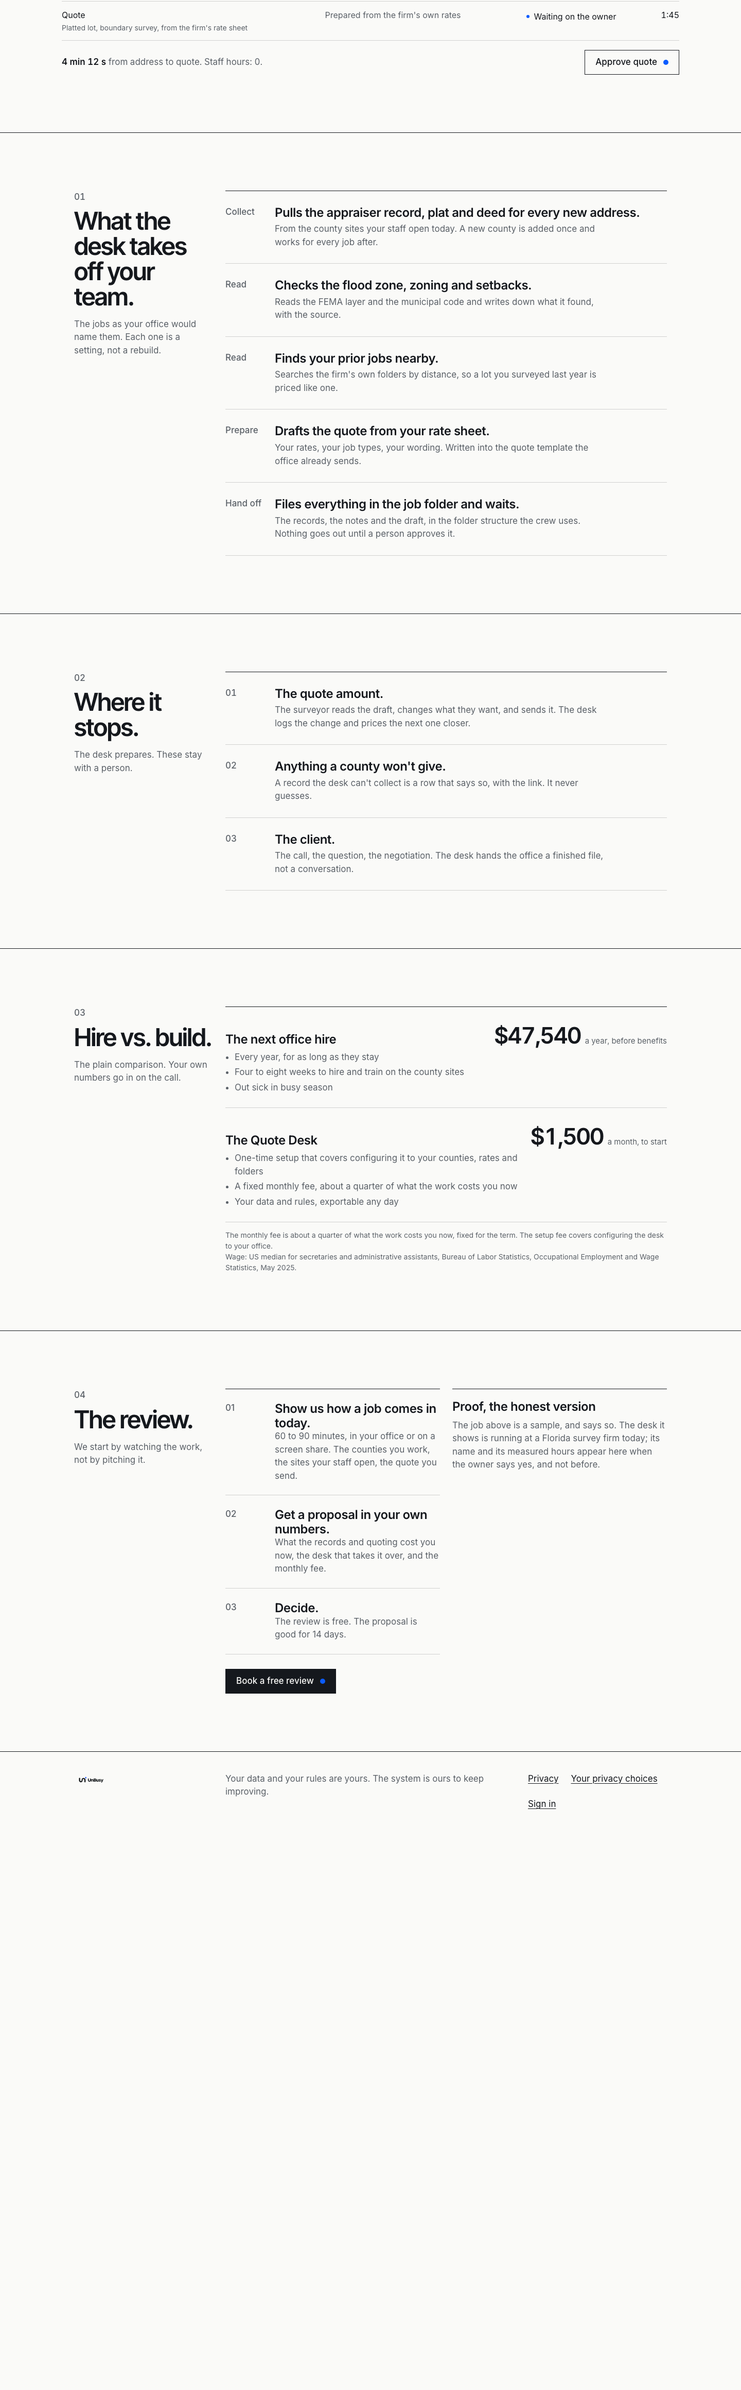
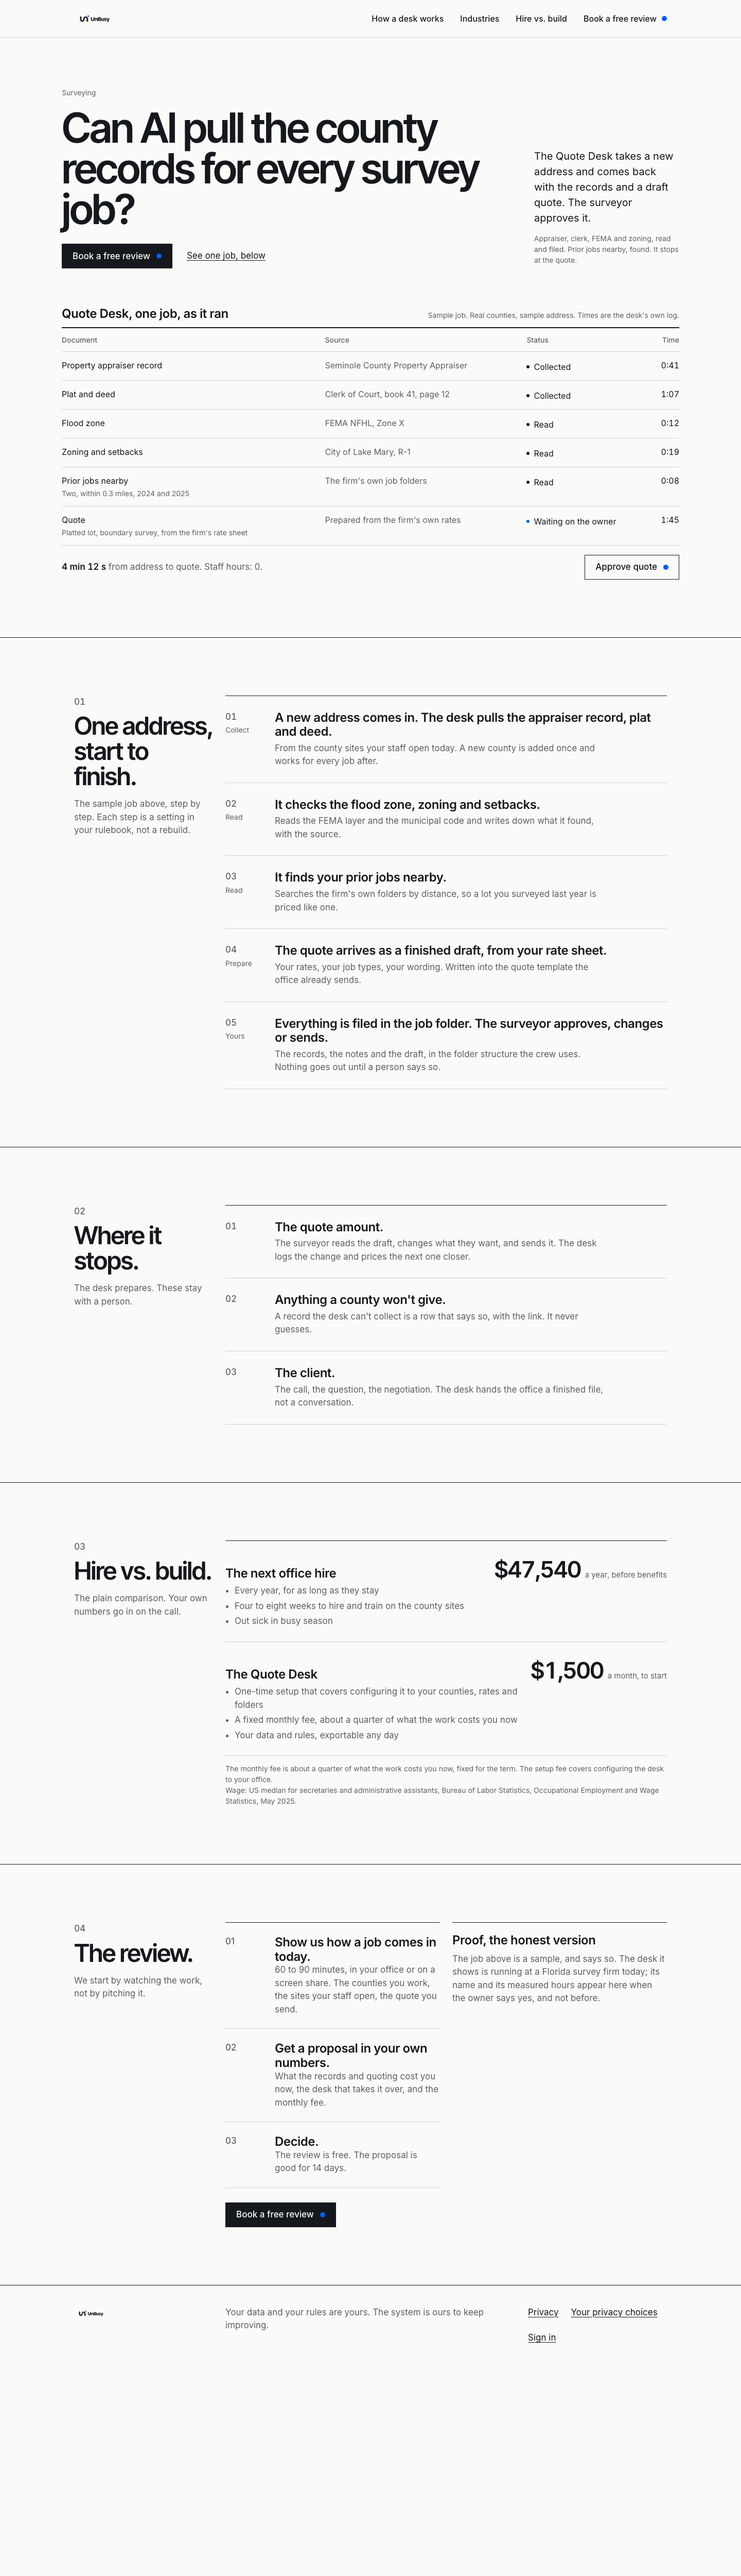
Mockups: running sheet, the ladder, finished draft / yours, data facts
Elements Josh picked from giga.ai, legora.com, zaro.ai and beside.com,
recorded in SITE-PLAN §0.1 and DESIGN §7.

diff --git a/docs/brand/site-concept/index.html b/docs/brand/site-concept/index.html
@@ -59,10 +59,10 @@
   <section id="how"><div class="wrap grid sec">
     <div class="c1-3"><div class="n num">01</div><h2>A desk does the legwork. Your people make the calls.</h2><p class="intro">Every desk has the same four parts, built around how your office actually works.</p></div>
     <div class="c4-12 rows">
-      <div class="row"><div class="n num">Collect</div><div><h3>Pulls documents and data in by itself.</h3><p>County sites, email, uploads, QuickBooks, the software you already run. Nothing is retyped.</p></div></div>
-      <div class="row"><div class="n num">Read</div><div><h3>Reads each document and applies your rules.</h3><p>A new threshold, county or staff member is a setting you change yourself, not a rebuild.</p></div></div>
-      <div class="row"><div class="n num">Prepare</div><div><h3>Produces the thing that needs checking.</h3><p>The quote, the filing, the packet or the statement, ready for a person to look at.</p></div></div>
-      <div class="row"><div class="n num">Hand off</div><div><h3>Stops at your decision. Every time.</h3><p>A person approves, signs or sends. The desk logs it and learns from it.</p></div></div>
+      <div class="row"><div class="n num">Collect<span class="small">The desk</span></div><div><h3>Pulls documents and data in by itself.</h3><p>County sites, email, uploads, QuickBooks, the software you already run. Nothing is retyped.</p></div></div>
+      <div class="row"><div class="n num">Read<span class="small">The desk</span></div><div><h3>Reads each document and applies your rules.</h3><p>A new threshold, county or staff member is a setting you change yourself, not a rebuild.</p></div></div>
+      <div class="row"><div class="n num">Prepare<span class="small">The desk</span></div><div><h3>Every job arrives as a finished draft.</h3><p>The quote, the filing, the packet or the statement, written and filed, ready for a person to look at.</p></div></div>
+      <div class="row"><div class="n num">Hand off<span class="small">Yours</span></div><div><h3>Stops at your decision. Every time.</h3><p>You approve, sign or send. The desk logs it and learns from it. The judgement, the signature and the client stay yours.</p></div></div>
     </div>
   </div></section>
 
@@ -75,8 +75,14 @@
   </div></section>
 
   <section id="math"><div class="wrap grid sec">
-    <div class="c1-3"><div class="n num">03</div><h2>Hire vs. build.</h2><p class="intro">The plain comparison. Your own numbers go in on the call.</p></div>
+    <div class="c1-3"><div class="n num">03</div><h2>Hire vs. build.</h2><p class="intro">What owners usually try first, then the plain comparison. Your own numbers go in on the call.</p></div>
     <div class="c4-12">
+      <div class="rows" style="margin-bottom:48px">
+        <div class="row"><div class="n num">01</div><div><h3>The next hire.</h3><p>Works until they leave. Four to eight weeks to train, out sick in busy season, and the cost comes back every year.</p></div></div>
+        <div class="row"><div class="n num">02</div><div><h3>The all-in-one app.</h3><p>Answers the phone and builds the website. It has never read a plat, a W-9 or a work order, so your staff still retype into it.</p></div></div>
+        <div class="row"><div class="n num">03</div><div><h3>ChatGPT on a laptop.</h3><p>Answers questions when someone asks. It doesn't pull the records, doesn't know your rates and doesn't file anything.</p></div></div>
+        <div class="row"><div class="n num">04</div><div><h3>A desk.</h3><p>Does the job, in your systems, with your rules, and stops at your decision. Priced against the hire, below.</p></div></div>
+      </div>
       <div class="figs">
         <div class="fig"><div><h3>The next admin hire</h3><ul><li>Every year, for as long as they stay</li><li>Four to eight weeks to hire and train</li><li>Out sick in busy season</li></ul></div><div class="amt num">$47,540<small>a year, before benefits</small></div></div>
         <div class="fig"><div><h3>A desk</h3><ul><li>One-time setup that covers configuring it to your office</li><li>A fixed monthly fee, about a quarter of what the work costs you now</li><li>Your data and rules, exportable any day</li></ul></div><div class="amt num">$1,500<small>a month, to start</small></div></div>
@@ -107,5 +113,17 @@
   <div class="c10-12 links"><a class="link" href="#">Privacy</a><a class="link" href="#">Your privacy choices</a><a class="link" href="#">Sign in</a></div>
 </div></footer>
 
+
+<script>
+  // The sheet fills in row by row, once, the way the desk's log does. 4 min 12 s compressed to about five seconds.
+  (function(){
+    var sheet=document.querySelector('.sheet'); if(!sheet) return;
+    if(matchMedia('(prefers-reduced-motion: reduce)').matches) return;
+    sheet.classList.add('run');
+    var rows=[].slice.call(sheet.querySelectorAll('tbody tr')), foot=sheet.querySelector('.foot');
+    rows.forEach(function(r,i){ setTimeout(function(){ r.classList.add('on'); }, 500+i*650); });
+    setTimeout(function(){ foot.classList.add('on'); }, 500+rows.length*650+200);
+  })();
+</script>
 </body>
 </html>

diff --git a/docs/brand/site-concept/surveying.html b/docs/brand/site-concept/surveying.html
@@ -62,13 +62,13 @@
   </div>
 
   <section id="jobs"><div class="wrap grid sec">
-    <div class="c1-3"><div class="n num">01</div><h2>What the desk takes off your team.</h2><p class="intro">The jobs as your office would name them. Each one is a setting, not a rebuild.</p></div>
+    <div class="c1-3"><div class="n num">01</div><h2>One address, start to finish.</h2><p class="intro">The sample job above, step by step. Each step is a setting in your rulebook, not a rebuild.</p></div>
     <div class="c4-12 rows">
-      <div class="row"><div class="n num">Collect</div><div><h3>Pulls the appraiser record, plat and deed for every new address.</h3><p>From the county sites your staff open today. A new county is added once and works for every job after.</p></div></div>
-      <div class="row"><div class="n num">Read</div><div><h3>Checks the flood zone, zoning and setbacks.</h3><p>Reads the FEMA layer and the municipal code and writes down what it found, with the source.</p></div></div>
-      <div class="row"><div class="n num">Read</div><div><h3>Finds your prior jobs nearby.</h3><p>Searches the firm's own folders by distance, so a lot you surveyed last year is priced like one.</p></div></div>
-      <div class="row"><div class="n num">Prepare</div><div><h3>Drafts the quote from your rate sheet.</h3><p>Your rates, your job types, your wording. Written into the quote template the office already sends.</p></div></div>
-      <div class="row"><div class="n num">Hand off</div><div><h3>Files everything in the job folder and waits.</h3><p>The records, the notes and the draft, in the folder structure the crew uses. Nothing goes out until a person approves it.</p></div></div>
+      <div class="row"><div class="n num">01<span class="small">Collect</span></div><div><h3>A new address comes in. The desk pulls the appraiser record, plat and deed.</h3><p>From the county sites your staff open today. A new county is added once and works for every job after.</p></div></div>
+      <div class="row"><div class="n num">02<span class="small">Read</span></div><div><h3>It checks the flood zone, zoning and setbacks.</h3><p>Reads the FEMA layer and the municipal code and writes down what it found, with the source.</p></div></div>
+      <div class="row"><div class="n num">03<span class="small">Read</span></div><div><h3>It finds your prior jobs nearby.</h3><p>Searches the firm's own folders by distance, so a lot you surveyed last year is priced like one.</p></div></div>
+      <div class="row"><div class="n num">04<span class="small">Prepare</span></div><div><h3>The quote arrives as a finished draft, from your rate sheet.</h3><p>Your rates, your job types, your wording. Written into the quote template the office already sends.</p></div></div>
+      <div class="row"><div class="n num">05<span class="small">Yours</span></div><div><h3>Everything is filed in the job folder. The surveyor approves, changes or sends.</h3><p>The records, the notes and the draft, in the folder structure the crew uses. Nothing goes out until a person says so.</p></div></div>
     </div>
   </div></section>
 
@@ -114,5 +114,17 @@
   <div class="c10-12 links"><a class="link" href="#">Privacy</a><a class="link" href="#">Your privacy choices</a><a class="link" href="#">Sign in</a></div>
 </div></footer>
 
+
+<script>
+  // The sheet fills in row by row, once, the way the desk's log does. 4 min 12 s compressed to about five seconds.
+  (function(){
+    var sheet=document.querySelector('.sheet'); if(!sheet) return;
+    if(matchMedia('(prefers-reduced-motion: reduce)').matches) return;
+    sheet.classList.add('run');
+    var rows=[].slice.call(sheet.querySelectorAll('tbody tr')), foot=sheet.querySelector('.foot');
+    rows.forEach(function(r,i){ setTimeout(function(){ r.classList.add('on'); }, 500+i*650); });
+    setTimeout(function(){ foot.classList.add('on'); }, 500+rows.length*650+200);
+  })();
+</script>
 </body>
 </html>

diff --git a/docs/brand/site-concept/review.html b/docs/brand/site-concept/review.html
@@ -58,6 +58,7 @@
   <div class="wrap grid hero">
     <div class="c1-9">
       <h1 class="enter">Book a free operations review.</h1>
+      <p class="lead enter d1" style="margin-top:24px;max-width:44ch">Can AI run this part of your office? Usually, yes. The review is where we find out which part.</p>
     </div>
     <div class="c10-12 aside enter d1">
       <p class="lead">60 to 90 minutes, in your office or on a screen share. We watch how one part of your office runs today and come back with a proposal in your own numbers.</p>
@@ -67,6 +68,7 @@
 
   <div class="wrap grid review enter d2">
     <div class="c1-6">
+      <h3 style="margin-bottom:14px">See what a desk would take off your team.</h3>
       <form action="#" onsubmit="return false">
         <div class="two">
           <div class="field"><label for="name">Your name <span class="req">*</span></label><input id="name" type="text" autocomplete="name"></div>
@@ -112,6 +114,14 @@
         <ol>
           <li><div><h3>A proposal in your own numbers.</h3><p>What the work costs you now, the desk that takes it over, the setup fee and the monthly fee. Good for 14 days.</p></div></li>
           <li><div><h3>A yes/no list of the jobs the desk will run.</h3><p>If it isn't running them by day 90, you can cancel the term and keep what was built.</p></div></li>
+        </ol>
+      </div>
+      <div class="ready">
+        <h3 style="padding:18px 0 0">Your data</h3>
+        <ol>
+          <li><div><h3>Yours, exportable any day.</h3><p>Plain formats, no fee, no notice period.</p></div></li>
+          <li><div><h3>Your rulebook is a document you keep.</h3><p>Thresholds, counties, templates, staff. Readable without us.</p></div></li>
+          <li><div><h3>Never used to train anything.</h3><p>Your files run your desk and nobody else's.</p></div></li>
         </ol>
       </div>
     </div>

diff --git a/docs/brand/site-concept/site.css b/docs/brand/site-concept/site.css
@@ -124,3 +124,9 @@
     .fig .amt small { display:block; margin:4px 0 0; }
   }
   @media (prefers-reduced-motion:reduce) { .enter { animation:none; opacity:1; transform:none; } * { transition:none !important; } html { scroll-behavior:auto; } }
+
+/* the sheet runs once on load (reduced-motion shows it finished) */
+.sheet.run tbody tr, .sheet.run .foot { opacity:0; transform:translateY(4px); transition:opacity .3s ease-out, transform .3s ease-out; }
+.sheet.run tbody tr.on, .sheet.run .foot.on { opacity:1; transform:none; }
+.row .n .small { display:block; font-weight:400; margin-top:2px; }
+@media (prefers-reduced-motion:reduce) { .sheet.run tbody tr, .sheet.run .foot { opacity:1; transform:none; transition:none; } }

diff --git a/docs/brand/site-concept/SITE-PLAN.md b/docs/brand/site-concept/SITE-PLAN.md
@@ -15,6 +15,25 @@ Status: **approved by Josh, 2026-10-27.** Nothing is built yet; building starts 
 | 7 | The sample job sheet | Real counties, a sample address, status line "Waiting on the owner" until Pat says yes to being named. | Ireland is named only with Pat's OK. |
 | 8 | `makemeunbusy.com` | Not part of launch. If bought later, 308 everything to `gounbusy.com`. | A fun redirect, nothing more. |
 
+## 0.1 Elements borrowed from the four reference sites (Josh, 2026-10-27)
+
+Josh reviewed giga.ai, legora.com, zaro.ai and beside.com. What each contributes, all inside `DESIGN.md` (no palette, layout or component changes):
+
+| From | Element | Where it lands |
+| --- | --- | --- |
+| Giga | The product runs in the fold, not a screenshot | The job sheet fills in row by row on load (about five seconds for "4 min 12 s"), ending on the blue "Waiting on the owner" row. Plays once; reduced-motion shows it finished. The one motion exception in `DESIGN.md` §7. |
+| Giga | One ticket told in numbered steps | Industry pages: "One address, start to finish", rows 01–05 following the sample job (Collect, Read, Read, Prepare, Yours). |
+| Giga | "See what it would resolve at your company" | The heading over the review form: "See what a desk would take off your team." |
+| Legora | Serious register, few words per screen, trust stated as flat facts | "Your data" block on the review page: exportable any day; your rulebook is a document you keep; never used to train anything. |
+| Zaro | The "what you already bought" ladder | Hire vs. build opens with four rows: 01 the next hire, 02 the all-in-one app, 03 ChatGPT on a laptop, 04 a desk. Never names a competitor. |
+| Zaro | Timestamps as the argument | The Time and Source columns stay on every sheet; the time is the proof. |
+| Beside | "Handled by / Yours again" | The number column of "How a desk works" carries "The desk" under Collect, Read, Prepare and "Yours" under Hand off. |
+| Beside | "Every move arrives as a finished draft" | The Prepare row: "Every job arrives as a finished draft." |
+
+Explicitly not taken: dark palettes and gradients, mono or uppercase labels, logo bars, stats and quotes we don't have, email-gated demos, the instant "free audit" widget (the SKOX scorecard already proved it produces nothing here), and any headline that names the category ("AI operating system", "aOS").
+
+The review page also answers the site's question under its H1: "Can AI run this part of your office? Usually, yes. The review is where we find out which part."
+
 ## 1. What the site is for
 
 One job: get an owner of a 5–50 person firm to book a free operations review. Every page ends in that button. No pricing calculator, no scorecard, no "get my price", no portfolio.
@@ -58,11 +77,11 @@ Copy, section by section:
 
 **The sheet.** Caption: "Quote Desk, one job, as it ran". Small: "Sample job. Real counties, sample address. Times are the desk's own log." Five rows (property appraiser record, plat and deed, flood zone, zoning and setbacks, quote) as in the mockup. Foot: "4 min 12 s from address to quote. Staff hours: 0." and the outline button "Approve quote ●" (decorative, links to `/surveying`).
 
-**01 A desk does the legwork. Your people make the calls.** Intro: "Every desk has the same four parts, built around how your office actually works." Rows Collect / Read / Prepare / Hand off, copy as in the mockup.
+**01 A desk does the legwork. Your people make the calls.** Intro: "Every desk has the same four parts, built around how your office actually works." Rows Collect / Read / Prepare ("Every job arrives as a finished draft.") / Hand off ("Stops at your decision. Every time. … The judgement, the signature and the client stay yours."), with "The desk" / "Yours" under the row labels.
 
 **02 Start with the question you're already asking.** Intro: "Each page shows a desk running in that trade, on sample data, labelled as a sample." Rows: Surveying, Property management (day one); Accounting, Title and escrow (when live).
 
-**03 Hire vs. build.** As in the mockup: "$47,540 a year, before benefits" (BLS OEWS May 2025, cited in small text) against "$1,500 a month, to start". Bullets as in the mockup. Add one line of small text under the desk figure: "The monthly fee is about a quarter of what the work costs you now, fixed for the term. The setup fee covers configuring the desk to your office."
+**03 Hire vs. build.** Intro: "What owners usually try first, then the plain comparison. Your own numbers go in on the call." The ladder first (01 the next hire, 02 the all-in-one app, 03 ChatGPT on a laptop, 04 a desk; copy in the mockup), then the figures as in the mockup: "$47,540 a year, before benefits" (BLS OEWS May 2025, cited in small text) against "$1,500 a month, to start". Bullets as in the mockup. Add one line of small text under the desk figure: "The monthly fee is about a quarter of what the work costs you now, fixed for the term. The setup fee covers configuring the desk to your office."
 
 **04 The review.** Steps 1–3 as in the mockup (60–90 minutes; proposal in your own numbers; decide, proposal good for 14 days). "Proof, the honest version" paragraph as in the mockup. No names (decision 5). Filled button to `/review`.
 
@@ -72,7 +91,7 @@ One template, one content file per industry. Same header and footer. Structure, 
 
 1. **Hero.** H1 is the question. Lead: one sentence on what the desk does in that trade. Aside: the three-line summary (what goes in, what comes out, where it stops). Filled button "Book a free review ●".
 2. **The sheet.** One job as it ran, on sample data, in that trade's own documents. The same table component as the homepage. Caption names the desk ("Quote Desk", "Maintenance Desk", "Title Desk", "1099 Desk").
-3. **01 What the desk takes off your team.** Rows: the four or five jobs it runs, each one sentence, written as the owner would say them ("Pull the appraiser record and the plat for every new address").
+3. **01 One address, start to finish.** The sample job as numbered steps 01–05 (Collect, Read, Read, Prepare, Yours), each one sentence in the owner's words, following the rows of the sheet above.
 4. **02 Where it stops.** Two or three rows: the decisions that stay with a person in that trade (the quote amount, the vendor to send, the filing to sign).
 5. **03 Hire vs. build**, with the trade's own hire named (survey tech, maintenance coordinator, title processor, seasonal 1099 preparer) and the same cited wage line or the trade's own BLS figure.
 6. **04 The review.** Same three steps. Filled button. Recording of the desk running goes here when one exists (the plan calls for a 3-minute recording per page; none exists yet, so the slot is omitted, not faked).
@@ -81,7 +100,7 @@ Industry copy to write once Josh confirms the page list; the surveying page draw
 
 ### 2.3 The review (`/review`)
 
-H1: "Book a free operations review." Lead: "60 to 90 minutes, in your office or on a screen share. We watch how one part of your office runs today and come back with a proposal in your own numbers. Free. No pitch deck." Three steps repeated in short. The form is on this page, left column; the right column holds the "what to have ready" list (the systems you use, who does the work, roughly how many jobs a month). No phone number (decision 6).
+H1: "Book a free operations review." Under it: "Can AI run this part of your office? Usually, yes. The review is where we find out which part." Aside: "60 to 90 minutes, in your office or on a screen share. We watch how one part of your office runs today and come back with a proposal in your own numbers. Free. No pitch deck." Three steps repeated in short. The form is on this page, left column; headed "See what a desk would take off your team."; the right column holds "What to have ready" (the systems you use, who does the work, roughly how many a month), "What you get" (the proposal; the yes/no job list and the 90-day out) and "Your data" (exportable any day; your rulebook is a document you keep; never used to train anything). No phone number (decision 6).
 
 **Form fields** (replacing the SKOX scope form):
 

diff --git a/docs/brand/site-concept/DESIGN.md b/docs/brand/site-concept/DESIGN.md
@@ -145,7 +145,7 @@ No scroll-triggered effects. The sticky header is the only scroll behavior.
 Rows and table rows: paper-2 background. Links: blue underline. Buttons as above. All transitions 150ms.
 
 ### Special
-One: the blue dot after "Book a free review" grows from 10px to 12px on hover (transform: scale(1.2), 150ms). That's the whole budget.
+Two. The blue dot after "Book a free review" grows from 10px to 12px on hover (transform: scale(1.2), 150ms). And the job sheet runs once on load: its rows fade up one by one, 650ms apart, the foot line last, so "4 min 12 s" plays out in about five seconds (added 2026-10-27 after Josh's review of giga.ai and zaro.ai; the product is shown working, not pictured). Nothing counts up, nothing loops. That's the whole budget.
 
 ### Reduced motion
 ```css
